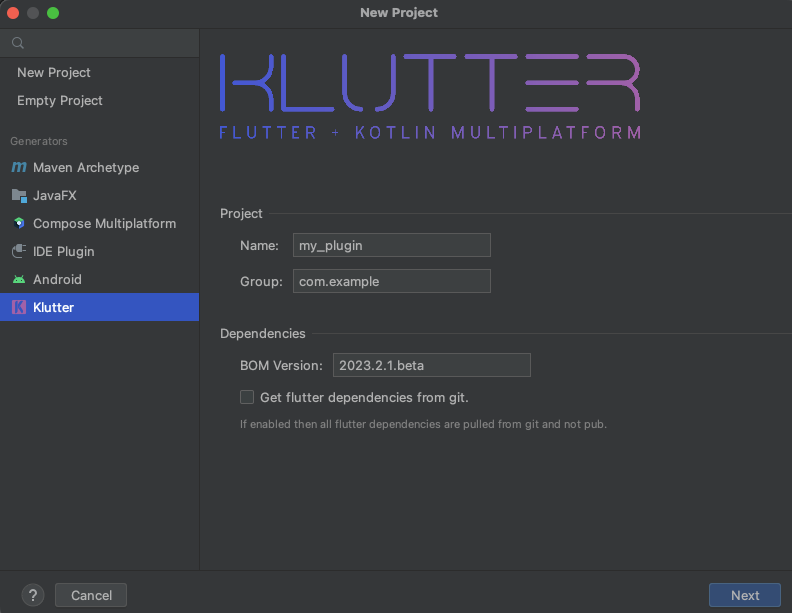
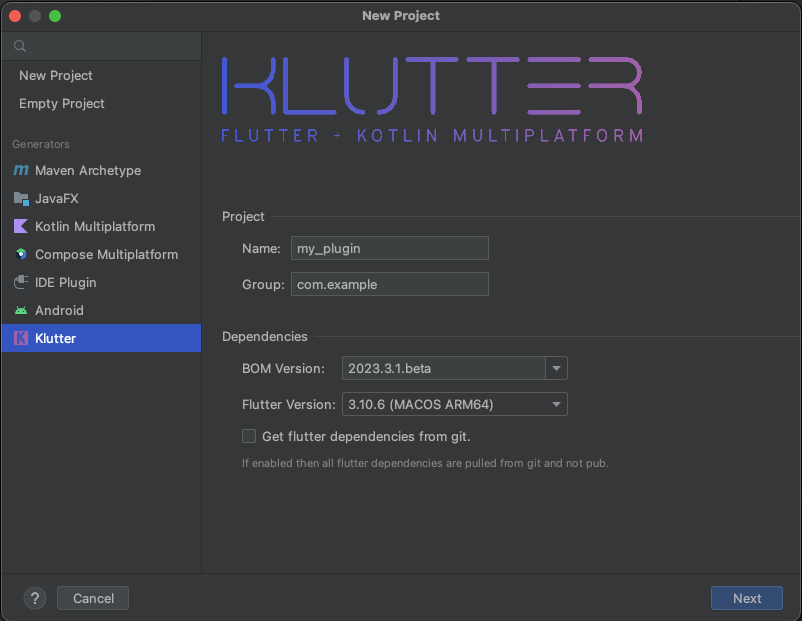
Update Intellij tutorial for klutter 2023.3.1.beta.

diff --git a/_posts/2022-08-19-klutter-3.md b/_posts/2022-08-19-klutter-3.md
@@ -10,11 +10,9 @@ it can be written once in Kotlin and used as a Flutter plugin. In this tutorial
 we will create a new Klutter plugin project using Intellij IDEA.
 
 # Before Getting Started
-To build and run an iOS app locally an Apple device is required. This tutorial
-assumes you are working on macOS. Next you'll need to have Intellij and Flutter installed.
-No shock there! This tutorial was made with Flutter 3.10.6.
+The only thing you need to have installed is Intellij. All tools, including Flutter,
+are installed during the project initialization phase.
 - [Install Intellij IDEA](https://www.jetbrains.com/help/idea/installation-guide.html)
-- [Install Flutter](https://docs.flutter.dev/get-started/install/macos)
 
 # Install Plugin
 First install the Intellij plugin: In the Intellij toolbar click on
@@ -56,6 +54,18 @@ Whatever you choose, stick to the following naming conventions:
 If the name or group is invalid you will get a warning:
 <img src="https://raw.githubusercontent.com/buijs-dev/website/master/images/klutter_3_img_2.png" alt="Invalid name and group message" />
 
+The BOM version is more lenient, meaning it will display a warning if the given version is unknown.
+If you're certain the BOM version does exist then this warning can be ignored.
+Selecting a BOM version from the dropdown box guarantees the correctness of the input, however.
+
+By default, the latest (supported) Flutter version is selected. This Flutter
+distribution will be downloaded to the Kradle cache folder, so that it 
+can be reused by all Klutter projects. The selected Flutter version is stored
+in the Klutter project. 
+
+>[Kradle](https://buijs.dev/kradle-1/) is a new experimental CLI tool for working with 
+> Klutter, Flutter, Gradle and Kotlin Multiplatform. 
+
 Click on next, and you can enter a project name + location. This is the root folder
 where the project will be created. If you prefer to keep the name of the root folder
 and your plugin identical then just enter your plugin name for both fields.
@@ -66,9 +76,10 @@ Click create and wait for the project to be created. This will take a few minute
 will do the following:
 - Create a flutter plugin project.
 - Add [klutter plugin](https://pub.dev/packages/klutter) to pubspec.yaml.
-- Execute klutter:producer init.
+- Add [klutter_ui plugin](https://pub.dev/packages/klutter_ui) to pubspec.yaml.
+- Execute klutter:producer init bom=2023.3.1.beta flutter=3.10.6.macos.arm64.
 - Execute klutter:consumer init.
-- Execute klutter:producer install=library.
+- Execute klutter:consumer add lib=intellij_idea_tutorial.
 
 See the [documentation](https://github.com/buijs-dev/klutter-dart) to learn more about these flutter tasks.
 
@@ -83,6 +94,19 @@ right-click the project and select Reload Gradle project.
 
 In a terminal run the command below. This will build the required artifacts for both Android and iOS.
 Grab a coffee, it might take a while...
+
+```shell
+./kradlew build
+```
+
+If kradlew is not installed then you can use the GetKradle Task to 
+import it into your project using Gradle (and then rerun build):
+
+```shell
+./gradlew klutterGetKradle
+```
+
+Alternatively you can build the platform module directly with Gradle:
 
 ```shell
 ./gradlew build -p "platform"
